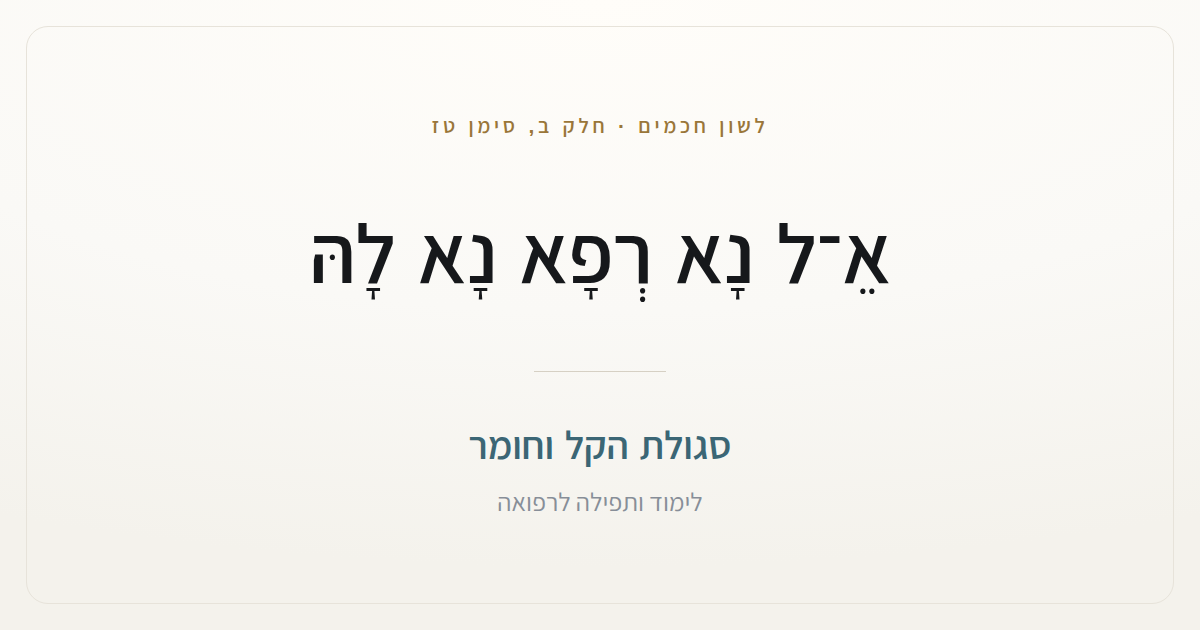
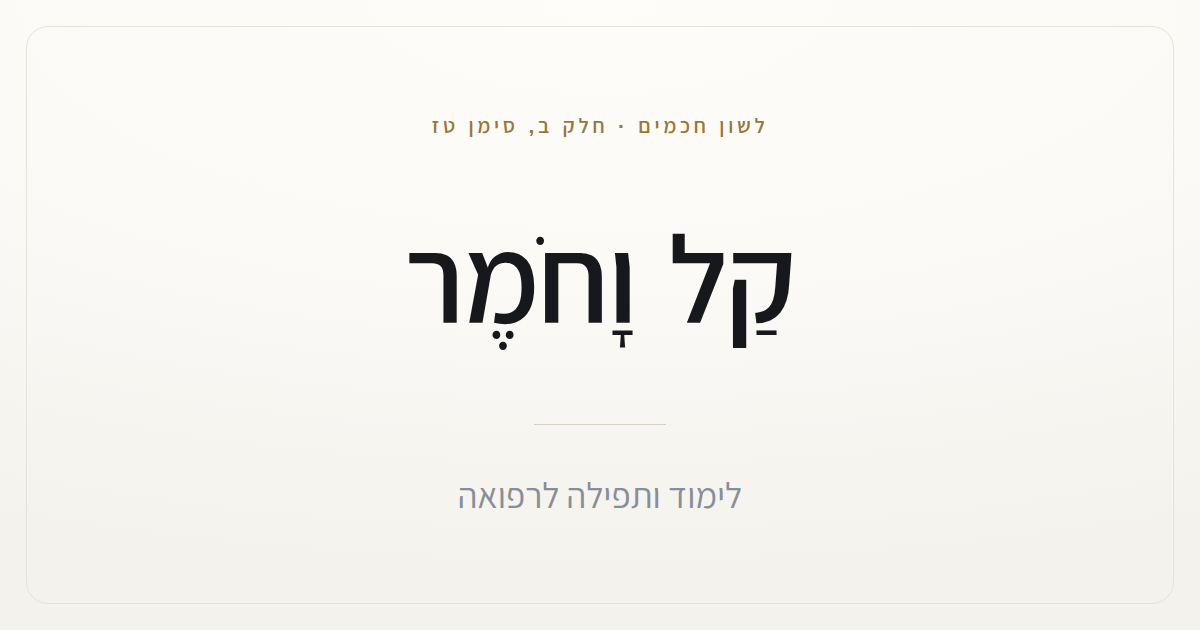
כרטיס השיתוף בלי פסוק, ו"העדות" במקום "ההדגמה"
הכרטיס נושא "קַל וָחֹמֶר" ואת מטרת הסדר, בלי פסוק. פסוק בתצוגה
מקדימה של וואטסאפ נחשף למי שלא פתח את הקישור.

מאותה סיבה הוסר הפסוק גם מהטקסט החלופי של התמונה, שגם הוא
מטא-דאטה גלוי. נבדק שאין פסוק בכותרת ובתיאור של שני העמודים.

חלק ג נקרא "העדות".

Claude-Session: https://claude.ai/code/session_019WqMBqCH6yrrojAD2Qp8Rn

Changed region(s): [[0.2467, 0.3619, 0.74, 0.5429], [0.37, 0.6635, 0.6167, 0.8143]]

diff --git a/study/index.html b/study/index.html
@@ -4,19 +4,19 @@
 <meta charset="utf-8">
 <meta name="viewport" content="width=device-width, initial-scale=1, viewport-fit=cover">
 <title>העמקה - סגולת הקל וחומר</title>
-<meta name="description" content="שתי ההנחיות של מרן הבן איש חי, הרעיון שמאחורי הסדר לפי הבני יששכר בשם המגיד ממעזריטש, ההדגמה שבספר בן יהוידע, ופירוק חמשת הלימודים.">
+<meta name="description" content="שתי ההנחיות של מרן הבן איש חי, הרעיון שמאחורי הסדר לפי הבני יששכר בשם המגיד ממעזריטש, העדות שבספר בן יהוידע, וההשמטה.">
 <meta name="color-scheme" content="light dark">
 <meta name="theme-color" content="#FAF9F6" media="(prefers-color-scheme: light)">
 <meta name="theme-color" content="#0E1013" media="(prefers-color-scheme: dark)">
 <meta name="robots" content="index, follow">
 <meta property="og:type" content="website">
 <meta property="og:title" content="העמקה - סגולת הקל וחומר">
-<meta property="og:description" content="שתי ההנחיות של מרן הבן איש חי, הרעיון שמאחורי הסדר לפי הבני יששכר בשם המגיד ממעזריטש, ההדגמה שבספר בן יהוידע, ופירוק חמשת הלימודים.">
+<meta property="og:description" content="שתי ההנחיות של מרן הבן איש חי, הרעיון שמאחורי הסדר לפי הבני יששכר בשם המגיד ממעזריטש, העדות שבספר בן יהוידע, וההשמטה.">
 <meta property="og:locale" content="he_IL">
-<meta property="og:image" content="https://nadaval56.github.io/kal-vachomer/assets/og.png?v=3c3c65f8">
+<meta property="og:image" content="https://nadaval56.github.io/kal-vachomer/assets/og.png?v=c61fe050">
 <meta property="og:image:width" content="1200">
 <meta property="og:image:height" content="630">
-<meta property="og:image:alt" content="אֵ־ל נָא רְפָא נָא לָהּ - סגולת הקל וחומר, לימוד ותפילה לרפואה">
+<meta property="og:image:alt" content="סגולת הקל וחומר - לימוד ותפילה לרפואה">
 <meta name="twitter:card" content="summary_large_image">
 <link rel="stylesheet" href="../assets/style.css?v=c8921fce">
 <link rel="preload" as="font" type="font/woff2" href="../assets/fonts/assistant-hebrew-400-normal.woff2" crossorigin>
@@ -163,7 +163,7 @@ var t=d.getItem('kv:theme');if(t==='night'||t==='day')r.setAttribute('data-theme
       <summary>
         <span class="part__n" aria-hidden="true">ג</span>
         <span class="part__head">
-          <span class="part__title"><span class="chev" aria-hidden="true"></span>ההדגמה</span>
+          <span class="part__title"><span class="chev" aria-hidden="true"></span>העדות</span>
           <span class="part__lead">צריכים לומר ״בפנינו נכתב ובפנינו נחתם״?</span>
         </span>
       </summary>

diff --git a/index.html b/index.html
@@ -13,10 +13,10 @@
 <meta property="og:title" content="סגולת הקל וחומר - לימוד ותפילה לרפואה">
 <meta property="og:description" content="סדר לימוד ותפילה לרפואה שסידר מרן הבן איש חי בספרו ׳לשון חכמים׳. הלימוד והתפילה מיוסדים על ׳קל וחומר׳ - המידה הראשונה שהתורה נדרשת בה. הלימוד, התפילה וקצת הסבר - באתר.">
 <meta property="og:locale" content="he_IL">
-<meta property="og:image" content="https://nadaval56.github.io/kal-vachomer/assets/og.png?v=3c3c65f8">
+<meta property="og:image" content="https://nadaval56.github.io/kal-vachomer/assets/og.png?v=c61fe050">
 <meta property="og:image:width" content="1200">
 <meta property="og:image:height" content="630">
-<meta property="og:image:alt" content="אֵ־ל נָא רְפָא נָא לָהּ - סגולת הקל וחומר, לימוד ותפילה לרפואה">
+<meta property="og:image:alt" content="סגולת הקל וחומר - לימוד ותפילה לרפואה">
 <meta name="twitter:card" content="summary_large_image">
 <link rel="stylesheet" href="assets/style.css?v=c8921fce">
 <link rel="preload" as="font" type="font/woff2" href="assets/fonts/assistant-hebrew-400-normal.woff2" crossorigin>

diff --git a/scripts/og-card.html b/scripts/og-card.html
@@ -21,19 +21,17 @@ body{width:1200px;height:630px;font-family:'Assistant',sans-serif;
 
 .kicker{font-size:21px;font-weight:600;letter-spacing:.18em;color:#9A7639;margin-bottom:52px}
 
-/* הפסוק שממנו הכל התחיל */
-.verse{font-size:84px;font-weight:600;color:#16181B;line-height:1.5;letter-spacing:-.01em}
+/* שם הסדר. בלי פסוק - הוא לא צריך להיות חשוף בתצוגה מקדימה. */
+.hero{font-size:124px;font-weight:600;color:#16181B;line-height:1.45;letter-spacing:-.015em}
 
 .rule{width:132px;height:1px;background:#D6D0C4;margin:54px 0 46px}
 
-.title{font-size:40px;font-weight:600;color:#3B6675;letter-spacing:-.005em}
-.sub{font-size:26px;font-weight:400;color:#878E98;margin-top:14px}
+.sub{font-size:36px;font-weight:400;color:#878E98}
 </style></head>
 <body>
   <div class="frame"></div>
   <p class="kicker">לשון חכמים · חלק ב, סימן טז</p>
-  <p class="verse">אֵ־ל נָא רְפָא נָא לָהּ</p>
+  <p class="hero">קַל וָחֹמֶר</p>
   <div class="rule"></div>
-  <p class="title">סגולת הקל וחומר</p>
   <p class="sub">לימוד ותפילה לרפואה</p>
 </body></html>
